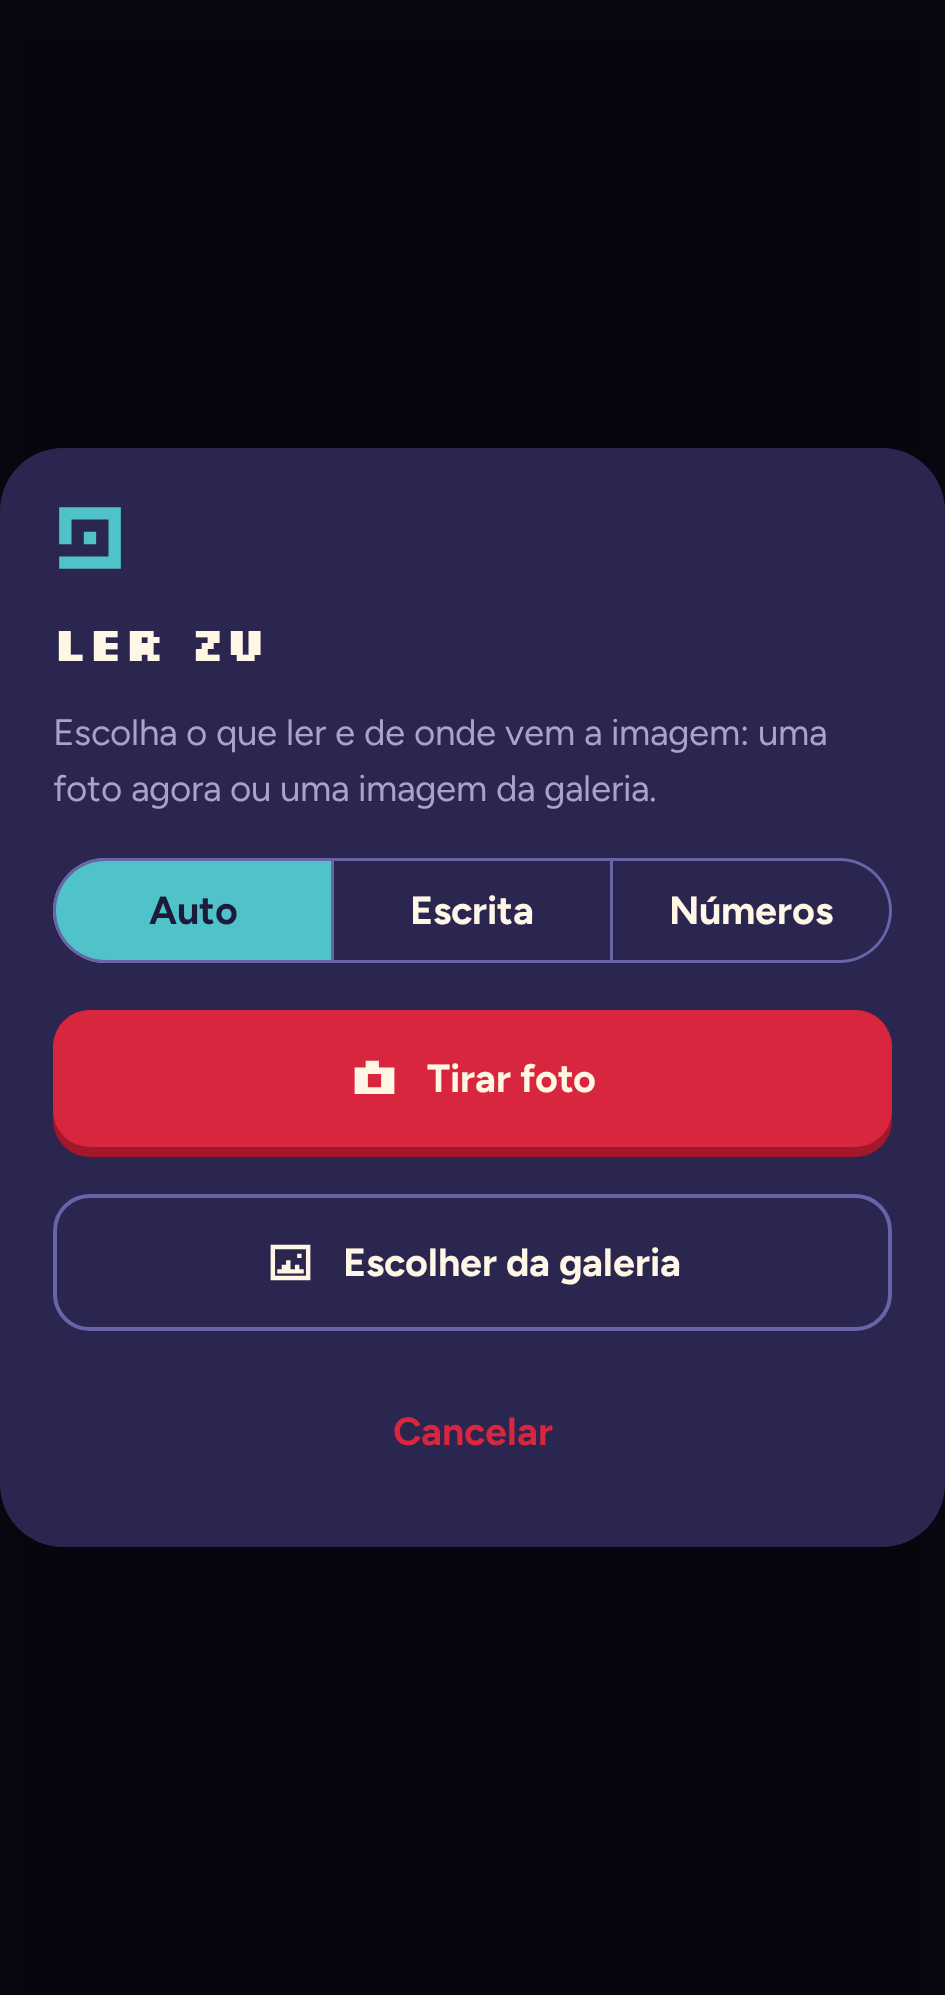
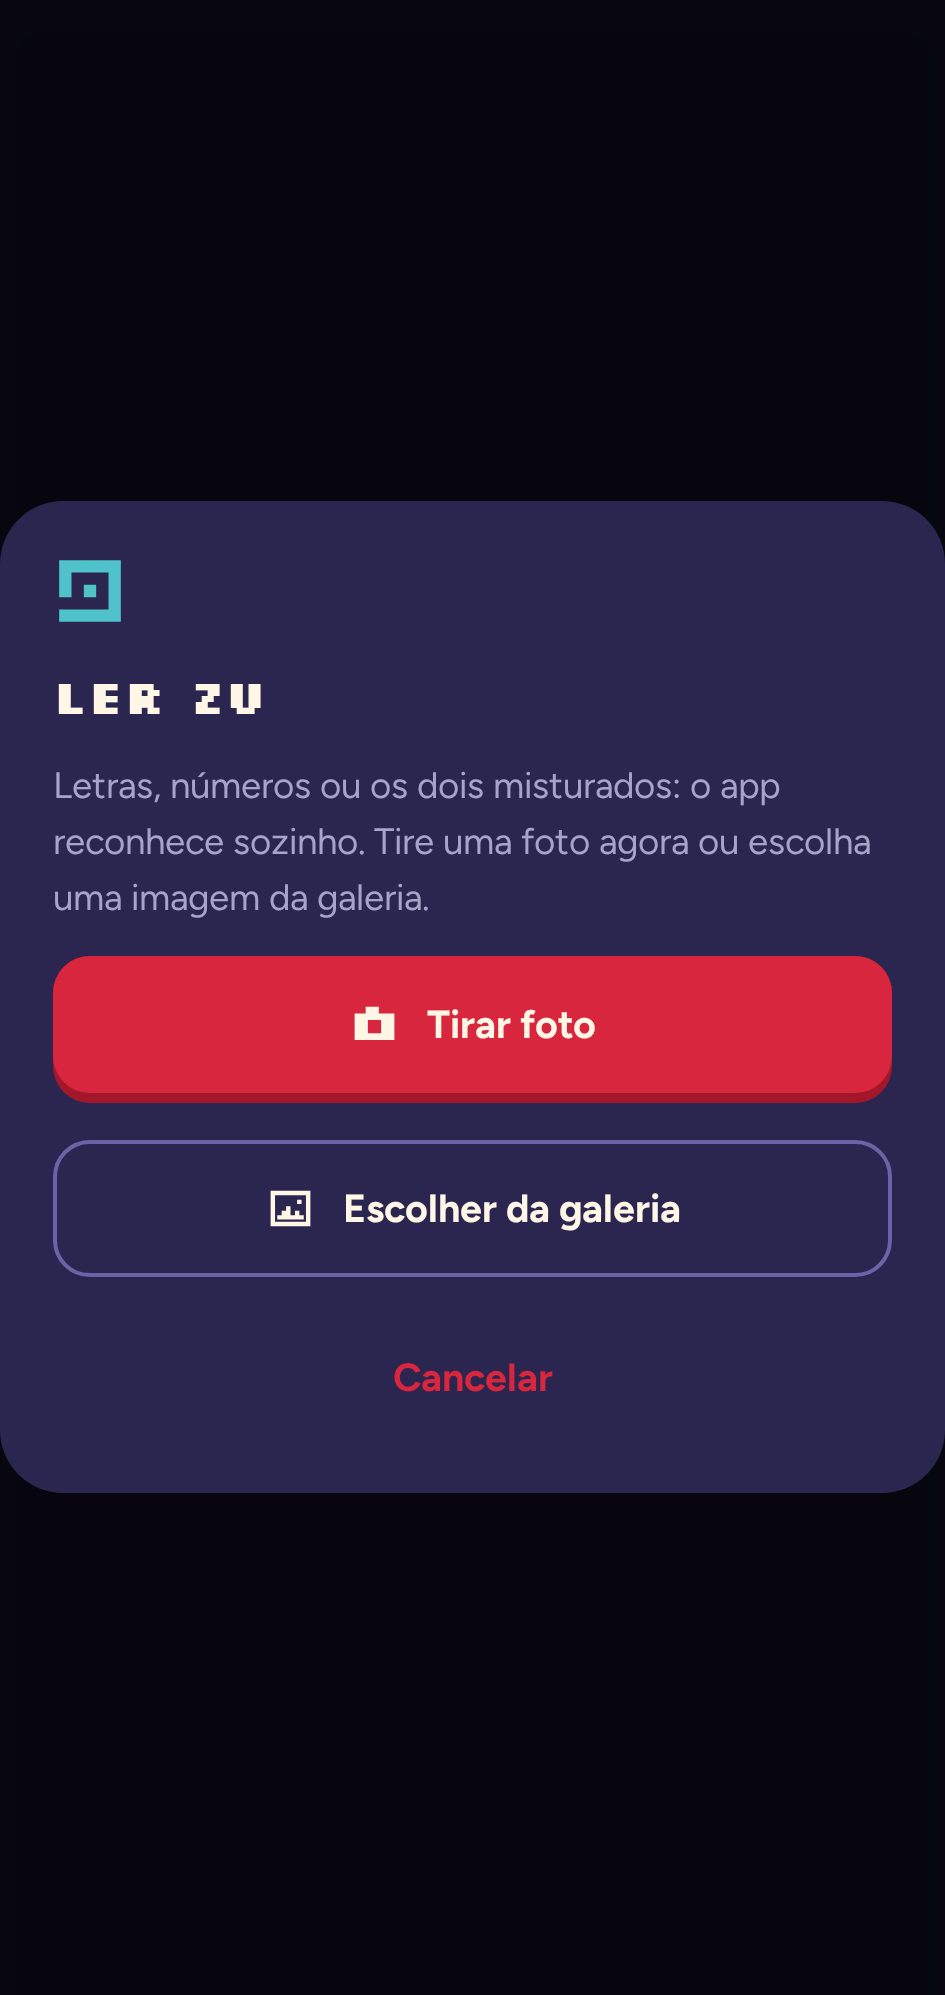
Always read in Auto: remove the Auto/Text/Numbers selector
Auto already reads text, numbers and both mixed, so the selector leaves
the Read Zu modal, the camera and the settings; a saved choice is
ignored. A wrong letter/number is fixed by tapping the glyph.

Claude-Session: https://claude.ai/code/session_01BCnJVnooueZi2qjpizvg1o

Changed region(s): [[0.0, 0.2175, 1.0, 0.6526], [0.0, 0.6837, 1.0, 0.7769], [0.0307, 0.5905, 0.0614, 0.6526]]

diff --git a/app/src/main/kotlin/com/davicolzer/zureader/ui/camera/CameraScreen.kt b/app/src/main/kotlin/com/davicolzer/zureader/ui/camera/CameraScreen.kt
@@ -75,8 +75,6 @@ fun CameraScreen(
     purpose: CameraPurpose = CameraPurpose.READ,
     onQrFound: (QrCode, Bitmap?) -> Unit = { _, _ -> },
     learned: List<ZuGlyph> = emptyList(),
-    mode: ModeChoice = ModeChoice.AUTO,
-    onMode: (ModeChoice) -> Unit = {},
 ) {
     val context = LocalContext.current
     var granted by remember { mutableStateOf(hasCameraPermission(context)) }
@@ -84,7 +82,7 @@ fun CameraScreen(
     LaunchedEffect(Unit) { if (!granted) launcher.launch(Manifest.permission.CAMERA) }
 
     if (granted) {
-        CameraContent(onCaptured, onPickFromGallery, onClose, direction, learned, mode, onMode, purpose, onQrFound)
+        CameraContent(onCaptured, onPickFromGallery, onClose, direction, learned, purpose, onQrFound)
     } else {
         PermissionNeeded(
             onAllow = { launcher.launch(Manifest.permission.CAMERA) },
@@ -108,8 +106,6 @@ private fun CameraContent(
     onClose: () -> Unit,
     direction: ReadingDirection,
     learned: List<ZuGlyph>,
-    mode: ModeChoice,
-    onMode: (ModeChoice) -> Unit,
     purpose: CameraPurpose,
     onQrFound: (QrCode, Bitmap?) -> Unit,
 ) {
@@ -142,7 +138,7 @@ private fun CameraContent(
         imageCapture.flashMode = if (flashOn) ImageCapture.FLASH_MODE_ON else ImageCapture.FLASH_MODE_OFF
     }
 
-    DisposableEffect(lifecycleOwner, direction, learned, mode, purpose) {
+    DisposableEffect(lifecycleOwner, direction, learned, purpose) {
         val analysisExecutor = Executors.newSingleThreadExecutor()
         val future = ProcessCameraProvider.getInstance(context)
         var provider: ProcessCameraProvider? = null
@@ -165,7 +161,7 @@ private fun CameraContent(
                     }
                     // anotar: a câmera só fotografa, não precisa analisar
                     CameraPurpose.NOTE -> null
-                    CameraPurpose.READ -> LiveAnalyzer(direction, learned, mode) { live.value = it }
+                    CameraPurpose.READ -> LiveAnalyzer(direction, learned, ModeChoice.AUTO) { live.value = it }
                 }
                 analyzer?.let { analysis.setAnalyzer(analysisExecutor, it) }
                 cameraProvider.unbindAll()
@@ -190,8 +186,6 @@ private fun CameraContent(
             onToggleFlash = { flashOn = !flashOn },
             onGallery = onPickFromGallery,
             horizontal = direction == ReadingDirection.HORIZONTAL_LEFT_TO_RIGHT,
-            mode = mode,
-            onMode = { live.value = null; onMode(it) },
             purpose = purpose,
             onShutter = {
                 capturing = true

diff --git a/app/src/main/kotlin/com/davicolzer/zureader/data/SettingsRepository.kt b/app/src/main/kotlin/com/davicolzer/zureader/data/SettingsRepository.kt
@@ -5,7 +5,6 @@ import androidx.datastore.preferences.core.edit
 import androidx.datastore.preferences.core.stringPreferencesKey
 import androidx.datastore.preferences.preferencesDataStore
 import com.davicolzer.zureader.zu.ReadingDirection
-import com.davicolzer.zureader.vision.ModeChoice
 import kotlinx.coroutines.flow.Flow
 import kotlinx.coroutines.flow.map
 
@@ -14,8 +13,6 @@ enum class ThemeMode { SYSTEM, LIGHT, DARK }
 data class Settings(
     val direction: ReadingDirection = ReadingDirection.VERTICAL_RIGHT_TO_LEFT,
     val theme: ThemeMode = ThemeMode.SYSTEM,
-    /** Último modo escolhido na tela inicial ou na câmera: automático, escrita ou números. */
-    val mode: ModeChoice = ModeChoice.AUTO,
 )
 
 private val Context.dataStore by preferencesDataStore(name = "settings")
@@ -24,23 +21,17 @@ private val Context.dataStore by preferencesDataStore(name = "settings")
 class SettingsRepository(private val context: Context) {
     private val directionKey = stringPreferencesKey("reading_direction")
     private val themeKey = stringPreferencesKey("theme")
-    private val modeKey = stringPreferencesKey("reading_mode")
 
     val settings: Flow<Settings> = context.dataStore.data.map { prefs ->
         Settings(
             direction = prefs[directionKey]?.let { runCatching { ReadingDirection.valueOf(it) }.getOrNull() }
                 ?: ReadingDirection.VERTICAL_RIGHT_TO_LEFT,
             theme = prefs[themeKey]?.let { runCatching { ThemeMode.valueOf(it) }.getOrNull() } ?: ThemeMode.SYSTEM,
-            mode = prefs[modeKey]?.let { runCatching { ModeChoice.valueOf(it) }.getOrNull() } ?: ModeChoice.AUTO,
         )
     }
 
     suspend fun setDirection(direction: ReadingDirection) {
         context.dataStore.edit { it[directionKey] = direction.name }
-    }
-
-    suspend fun setMode(mode: ModeChoice) {
-        context.dataStore.edit { it[modeKey] = mode.name }
     }
 
     suspend fun setTheme(theme: ThemeMode) {

diff --git a/app/src/main/kotlin/com/davicolzer/zureader/ui/home/HomeScreen.kt b/app/src/main/kotlin/com/davicolzer/zureader/ui/home/HomeScreen.kt
@@ -42,7 +42,6 @@ import androidx.compose.ui.semantics.semantics
 import androidx.compose.ui.text.style.TextAlign
 import androidx.compose.ui.tooling.preview.Preview
 import androidx.compose.ui.unit.dp
-import com.davicolzer.zureader.vision.ModeChoice
 import com.davicolzer.zureader.R
 import com.davicolzer.zureader.zu.ReadingMode
 import com.davicolzer.zureader.data.HistoryItem
@@ -67,7 +66,6 @@ fun HomeScreen(
     recent: List<HistoryItem> = emptyList(),
     onOpenSaved: (Long) -> Unit = {},
     onSeeAll: () -> Unit = {},
-    mode: ModeChoice = ModeChoice.AUTO,
     onWrite: () -> Unit = {},
     onAnnotate: () -> Unit = {},
     onReadQr: () -> Unit = {},
@@ -124,7 +122,7 @@ fun HomeScreen(
                 .padding(horizontal = 20.dp, vertical = 8.dp),
             verticalArrangement = Arrangement.spacedBy(14.dp),
         ) {
-            HeroCard(mode)
+            HeroCard()
             // ações: o que fazer; de onde vem a imagem (câmera ou galeria) é perguntado depois
             PixelPrimaryButton(
                 text = stringResource(R.string.home_read_zu),
@@ -180,7 +178,7 @@ fun HomeScreen(
 }
 
 @Composable
-private fun HeroCard(mode: ModeChoice) {
+private fun HeroCard() {
     Column(
         modifier = Modifier
             .fillMaxWidth()
@@ -199,7 +197,7 @@ private fun HeroCard(mode: ModeChoice) {
             Image(painterResource(R.drawable.ic_fez_hat), contentDescription = null, modifier = Modifier.size(56.dp))
         }
         Text(
-            stringResource(if (mode == ModeChoice.NUMBERS) R.string.home_hero_title_numbers else R.string.home_hero_title),
+            stringResource(R.string.home_hero_title),
             style = MaterialTheme.typography.headlineSmall,
         )
         Text(

diff --git a/app/src/main/kotlin/com/davicolzer/zureader/ui/ZuReaderApp.kt b/app/src/main/kotlin/com/davicolzer/zureader/ui/ZuReaderApp.kt
@@ -34,7 +34,6 @@ import com.davicolzer.zureader.ui.write.WriteScreen
 import com.davicolzer.zureader.ui.note.AnnotateScreen
 import com.davicolzer.zureader.ui.note.NoteScreen
 import com.davicolzer.zureader.ui.qr.QrScreen
-import com.davicolzer.zureader.ui.components.ModeSelector
 import com.davicolzer.zureader.ui.components.SourceDialog
 import com.davicolzer.zureader.reader.CameraPurpose
 import androidx.compose.material3.AlertDialog
@@ -68,7 +67,6 @@ fun ZuReaderApp(viewModel: ReaderViewModel = viewModel()) {
             onCamera = { chooseZuSource = false; viewModel.openCamera() },
             onGallery = { chooseZuSource = false; pickImage() },
             onDismiss = { chooseZuSource = false },
-            extra = { ModeSelector(settings.mode, viewModel::setMode) },
         )
     }
     // "Ler QR code": a imagem escolhida vai direto para a leitura do QR
@@ -106,7 +104,6 @@ fun ZuReaderApp(viewModel: ReaderViewModel = viewModel()) {
             recent = recent,
             onOpenSaved = viewModel::openSaved,
             onSeeAll = viewModel::openHistory,
-            mode = settings.mode,
             onWrite = { viewModel.openWriter() },
             onAnnotate = { chooseNoteSource = true },
             onReadQr = { chooseQrSource = true },
@@ -170,8 +167,6 @@ fun ZuReaderApp(viewModel: ReaderViewModel = viewModel()) {
                     onClose = viewModel::goHome,
                     direction = settings.direction,
                     learned = learned,
-                    mode = settings.mode,
-                    onMode = viewModel::setMode,
                 )
             }
         }

diff --git a/app/src/main/kotlin/com/davicolzer/zureader/ui/camera/CameraOverlay.kt b/app/src/main/kotlin/com/davicolzer/zureader/ui/camera/CameraOverlay.kt
@@ -42,11 +42,9 @@ import androidx.compose.ui.semantics.role
 import androidx.compose.ui.semantics.semantics
 import androidx.compose.ui.text.style.TextAlign
 import androidx.compose.ui.unit.dp
-import com.davicolzer.zureader.vision.ModeChoice
 import com.davicolzer.zureader.R
 import com.davicolzer.zureader.reader.CameraPurpose
 import com.davicolzer.zureader.reader.LiveFrame
-import com.davicolzer.zureader.ui.components.ModeSelector
 import com.davicolzer.zureader.ui.theme.ZuTheme
 import com.davicolzer.zureader.vision.FillCenter
 import com.davicolzer.zureader.zu.ReadingMode
@@ -67,8 +65,6 @@ fun CameraOverlay(
     onGallery: () -> Unit,
     onShutter: () -> Unit,
     horizontal: Boolean = false,
-    mode: ModeChoice = ModeChoice.AUTO,
-    onMode: (ModeChoice) -> Unit = {},
     /** Só na leitura de glifos aparecem o contador, o seletor de modo e o texto ao vivo. */
     purpose: CameraPurpose = CameraPurpose.READ,
 ) {
@@ -141,7 +137,6 @@ fun CameraOverlay(
                 )
             }
 
-            if (reading) ModeSelector(mode, onMode, Modifier.padding(horizontal = 16.dp))
 
             Spacer(Modifier.weight(1f))
 

diff --git a/app/src/main/kotlin/com/davicolzer/zureader/reader/ReaderViewModel.kt b/app/src/main/kotlin/com/davicolzer/zureader/reader/ReaderViewModel.kt
@@ -99,7 +99,8 @@ class ReaderViewModel(application: Application) : AndroidViewModel(application) 
     /** Leitor com o modo e a direção escolhidos e os glifos aprendidos; refeito quando algo muda. */
     private val imageReader: ImageTextReader
         get() {
-            val key = ReaderKey(settings.value.mode, settings.value.direction, learned.value)
+            // sempre automático: escrita, números e os dois misturados
+            val key = ReaderKey(ModeChoice.AUTO, settings.value.direction, learned.value)
             readerCache?.let { (k, reader) -> if (k == key) return reader }
             return ZuImageReader.forChoice(key.mode, key.direction, key.learned).also { readerCache = key to it }
         }
@@ -367,9 +368,6 @@ class ReaderViewModel(application: Application) : AndroidViewModel(application) 
         viewModelScope.launch { app.settings.setDirection(direction) }
     }
 
-    fun setMode(mode: ModeChoice) {
-        viewModelScope.launch { app.settings.setMode(mode) }
-    }
 
     fun setTheme(theme: ThemeMode) {
         viewModelScope.launch { app.settings.setTheme(theme) }

diff --git a/docs/PLANO.md b/docs/PLANO.md
@@ -147,11 +147,11 @@ Fontes: **Silkscreen** (títulos e texto lido, pixel), **Figtree** (interface), 
 | **6a. Aprender com as correções** ✅ | Ao corrigir uma letra, o desenho do glifo (na orientação de leitura) vira um exemplo do usuário (Room, até 300, migração automática 1→2). O classificador compara com o alfabeto e com os exemplos; um exemplo só vence se estiver mais perto (empate = alfabeto) e, se for idêntico, vale contra o contexto do inglês. Vale para galeria, câmera e visor ao vivo. Botão "Esquecer correções" nas configurações | Testes: um "E" deformado que o alfabeto lê como outra letra passa a ser lido certo no texto inteiro depois de um exemplo, também com a foto girada; empate continua com o alfabeto; exemplos da mesma letra não tiram confiança |
 | **6b. Modelo treinado (opcional)** 🧪 | Testado: rede pequena (MLP 16×16 → 96 → 24 glifos + "não é glifo") treinada com numpy em ~93 mil recortes sintéticos degradados + glifos das paredes reais (gerador `GlyphNetDataGenerator`, script `tools/train_glyphnet.py`); 99,3% na validação. No leitor, ela resgatava glifos borrados e descartava lixo | **Não entrou no app**: nas lápides (fora do treino) o resultado oscilou — lápide 2 inteira subiu de 79% para 95%, mas as recortadas caíram (95% → 84% e 69% → 13%); restringir a correção a grades parecidas não deixou nenhuma variante melhor em todas as fotos. Retomar com mais fotos reais de lápides/pedra para treino |
 | **7. Tradução (opcional)** | ML Kit Translation EN → PT no aparelho, mostrando inglês e português | Só se o projeto decidir retomar a tradução |
-| **8. Números** ✅ | Seletor **Auto / Escrita / Números** (Auto é o padrão: lê em paralelo como escrita, como números e **misturado** — letras e números na mesma frase, ex.: "ROOM 12" —, uma thread por modo, e fica com a leitura de nota maior; a mista só vale com letras e números confiantes no mesmo bloco e letras iguais às da leitura só de escrita; nenhuma letra tem moldura completa e o par mais parecido, B e 0, difere em 2 quadradinhos) na tela inicial e na câmera (fica salvo). Modo números: 16 desenhos (0–10 e variantes de 3–7, todos com moldura e miolo 3×3), sem modelo do inglês, orientação da foto; resultado "3 10 7 / 1 2", correção com teclado 0–10; o modo fica salvo na leitura do histórico; exemplos aprendidos separados por modo | Testes: 16 desenhos distintos com moldura, cada um reconhecido; números em colunas, com ruído, em imagem com borrão/ruído/JPEG e colorida; modo escrita não devolve números; leitura salva guarda o modo (e as antigas abrem como escrita). Placas de contas da biblioteca ("1 2 7 = 10"): o sinal de igual (dois traços da largura de um número) vira `=`, e a faixa de números aceita bordas mais finas que um bloco. Tabela real dos números do jogo (0–10, enviada pelo usuário) bate com os 16 desenhos e é lida inteira no modo Auto (`RealNumbersTest`). Placas da biblioteca (números encostados numa faixa em relevo): fatiadas de 4 em 4 blocos; recortadas, são lidas como números. **Falta**: gabarito dos dígitos dessas placas e leitura sem recorte |
+| **8. Números** ✅ | Leitura **automática** (antes havia um seletor Auto / Escrita / Números; hoje é sempre Auto: lê em paralelo como escrita, como números e **misturado** — letras e números na mesma frase, ex.: "ROOM 12" —, uma thread por modo, e fica com a leitura de nota maior; a mista só vale com letras e números confiantes no mesmo bloco e letras iguais às da leitura só de escrita; nenhuma letra tem moldura completa e o par mais parecido, B e 0, difere em 2 quadradinhos) na tela inicial e na câmera (fica salvo). Modo números: 16 desenhos (0–10 e variantes de 3–7, todos com moldura e miolo 3×3), sem modelo do inglês, orientação da foto; resultado "3 10 7 / 1 2", correção com teclado 0–10; o modo fica salvo na leitura do histórico; exemplos aprendidos separados por modo | Testes: 16 desenhos distintos com moldura, cada um reconhecido; números em colunas, com ruído, em imagem com borrão/ruído/JPEG e colorida; modo escrita não devolve números; leitura salva guarda o modo (e as antigas abrem como escrita). Placas de contas da biblioteca ("1 2 7 = 10"): o sinal de igual (dois traços da largura de um número) vira `=`, e a faixa de números aceita bordas mais finas que um bloco. Tabela real dos números do jogo (0–10, enviada pelo usuário) bate com os 16 desenhos e é lida inteira no modo Auto (`RealNumbersTest`). Placas da biblioteca (números encostados numa faixa em relevo): fatiadas de 4 em 4 blocos; recortadas, são lidas como números. **Falta**: gabarito dos dígitos dessas placas e leitura sem recorte |
 | **9. Escrever à mão (teclado Zu)** ✅ | **Terceira opção na tela inicial** ("Escrever à mão"), no mesmo nível de "Fotografar" e "Escolher da galeria". Tudo numa tela só, sem rolagem (a mensagem ocupa o espaço que o teclado deixa; cabe em 360×640 dp). Dois jeitos de digitar: **Glifos** (para quem copia do jogo e não sabe o que os glifos significam: organizados pelo desenho em 6 colunas, uma coluna por forma e uma linha por rotação, `ZuAlphabet.shapes`, e embaixo, depois de uma separação, todos os 16 desenhos de números, com as variantes de 3 a 7; K/Q e U/V numa tecla só, com a letra escolhida pelo contexto do inglês e atualizada enquanto digita, como na leitura de foto, `SharedLetters`) ou **Letras e números** (A–Z e, depois de uma separação, 0–10, um de cada, com K e Q separados; cada tecla mostra a letra e o glifo dela). 6 teclas por linha, com altura que se ajusta à tela (46 dp, até 36 dp em tela baixa, para a mensagem em Zu continuar com espaço); Espaço, Nova coluna (na leitura horizontal, Nova linha: o próximo glifo começa uma coluna nova), Apagar, Limpar e Pronto numa linha. A mensagem em Zu fica sempre legível: as colunas aparecem inteiras, com os glifos do maior tamanho que a altura permite, e se não couberem todas aparecem as mais recentes (onde o usuário está digitando); o texto em inglês mostra o final. A mensagem segue o cursor: o último glifo fica sempre à vista, junto da borda para onde a mensagem cresce (colunas novas à esquerda, linhas novas embaixo). O teclado tem prioridade: tocar na mensagem abre ela inteira em tela cheia, num modal com zoom de dois dedos e o texto completo em inglês; fechar volta a escrever, Espaço, Apagar e Limpar tudo; em cima, a mensagem em Zu em colunas (como no jogo, na direção de leitura escolhida, último glifo em dourado) e o texto em inglês. "Pronto" abre a tela de resultado (copiar, compartilhar, salvar no histórico, zoom); voltar reabre o teclado com o texto. A leitura é exata (`ZuWriter`): o texto montado vira a leitura sem passar pelo leitor de imagens | Testes: texto vira imagem e leitura exata (K/Q do usuário mantido; o leitor de imagens lê a mesma coisa na imagem gerada), números e misto, caixas em cima dos glifos desenhados, salvar e abrir igual. Capturas: [tela inicial](design/home-escrever-android.png), [teclado](design/escrever-vazio-android.png), [glifos](design/escrever-texto-android.png), [letras e números](design/escrever-letras-android.png), [tela pequena](design/escrever-pequeno-android.png), [mensagem longa](design/escrever-longo-android.png), [tela cheia](design/escrever-tela-cheia-android.png), [resultado](design/escrever-resultado-android.png) |
 | **10. QR code** ✅ | Botão próprio **"Ler QR code"** na tela inicial, ao lado de "Anotar foto": câmera com leitura ao vivo (basta apontar; também dá para fotografar) ou galeria, e uma tela só do QR com o conteúdo grande e selecionável, "Abrir link" (se for http/https), Copiar, Compartilhar e "Ler outro"; a tela mostra a imagem de onde o QR foi lido (na câmera ao vivo, o app tira uma foto colorida ao achar o QR), que dá para **recortar**, e **Salvar** guarda imagem e texto no histórico ("QR: …"), reabrindo na mesma tela. Além disso, Toda imagem lida (câmera ou galeria) também é procurada por um QR code (ZXing 3.5.4, sem internet; tenta também com as cores invertidas e reduzida). Se o recorte deixou o QR de fora, procura na foto inteira. No resultado, um cartão mostra o texto inteiro em fonte monoespaçada e selecionável (pode ser um comando para digitar no jogo), com "Abrir link" quando é http/https e "Copiar"; sem glifos, aparece só o QR. Copiar/Compartilhar do rodapé levam o texto do QR junto; o QR vai para o histórico | Testes: link e texto, QR claro sobre escuro, com ruído/JPEG, pequeno no canto de foto grande, imagem sem QR; ida e volta no histórico (com `;`, `|`, quebra de linha e acentos) e leituras antigas sem QR. Capturas: [link](design/qr-link-android.png), [texto](design/qr-texto-android.png) |
 | **11. Anotar foto** ✅ | Opção da tela inicial, ao lado de "Ler QR code" ("Escrever à mão" fica por último): tirar uma foto ou escolher da galeria e anotar por cima — caneta (risco à mão livre), retângulo, círculo e texto, em 4 cores (dourado, vermelho, azul, branco), com desfazer e limpar. Os desenhos ficam em pixels da imagem (a foto salva sai igual à tela; espessura e texto proporcionais à foto). Salvar pede um nome (opcional) e guarda no histórico com a marca "Anotação" (Room 3, coluna `kind`, migração automática); depois dá para ver, anotar mais, compartilhar a imagem (FileProvider) e apagar | Capturas: [editor](design/anotar-editor-android.png), [anotação salva](design/anotar-salva-android.png). Falta testar os gestos num aparelho |
-| **12. Ações primeiro** ✅ | A tela inicial mostra o que fazer: **Ler Zu** (principal), **Anotar foto** e **Ler QR code** lado a lado e **Escrever à mão** por último. Cada ação que precisa de imagem abre o mesmo modal (`SourceDialog`, com os botões do app): **Tirar foto** ou **Escolher da galeria**. No "Ler Zu", o seletor Auto/Escrita/Números fica dentro do modal (e na câmera) | Capturas: [tela inicial](design/home-android.png), [modal do Ler Zu](design/modal-ler-zu-android.png) |
+| **12. Ações primeiro** ✅ | A tela inicial mostra o que fazer: **Ler Zu** (principal), **Anotar foto** e **Ler QR code** lado a lado e **Escrever à mão** por último. Cada ação que precisa de imagem abre o mesmo modal (`SourceDialog`, com os botões do app): **Tirar foto** ou **Escolher da galeria**. A leitura é sempre **automática** (escrita, números e os dois misturados): o seletor Auto/Escrita/Números saiu do app; se o Auto errar entre letra e número, corrige-se tocando no glifo | Capturas: [tela inicial](design/home-android.png), [modal do Ler Zu](design/modal-ler-zu-android.png) |
 
 ### Dados de teste
 
